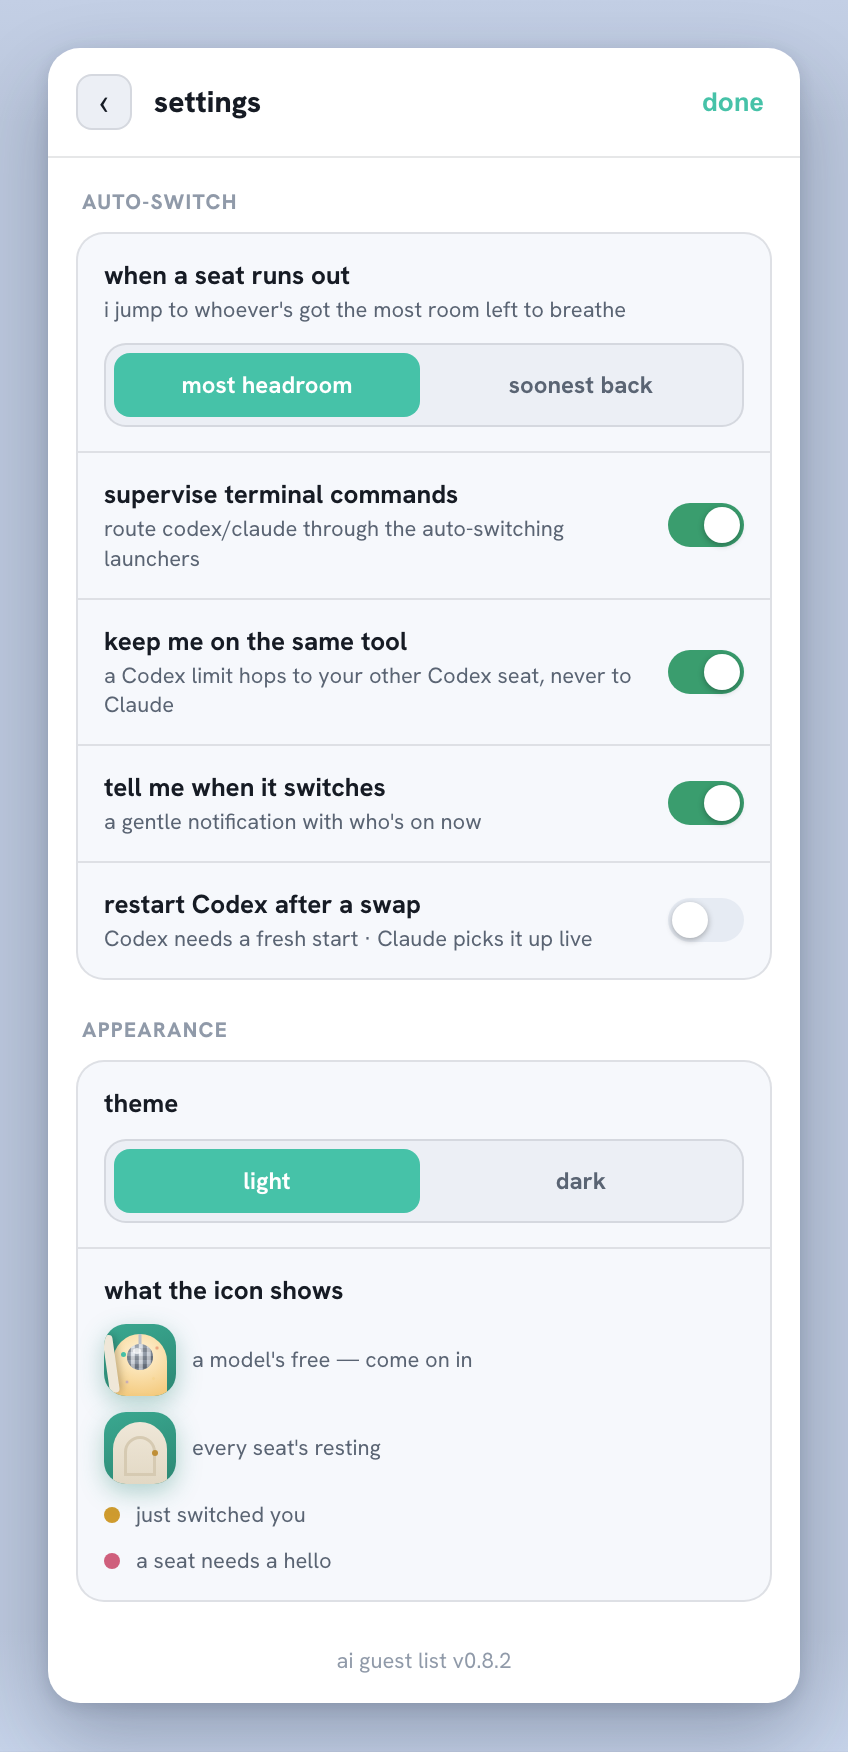
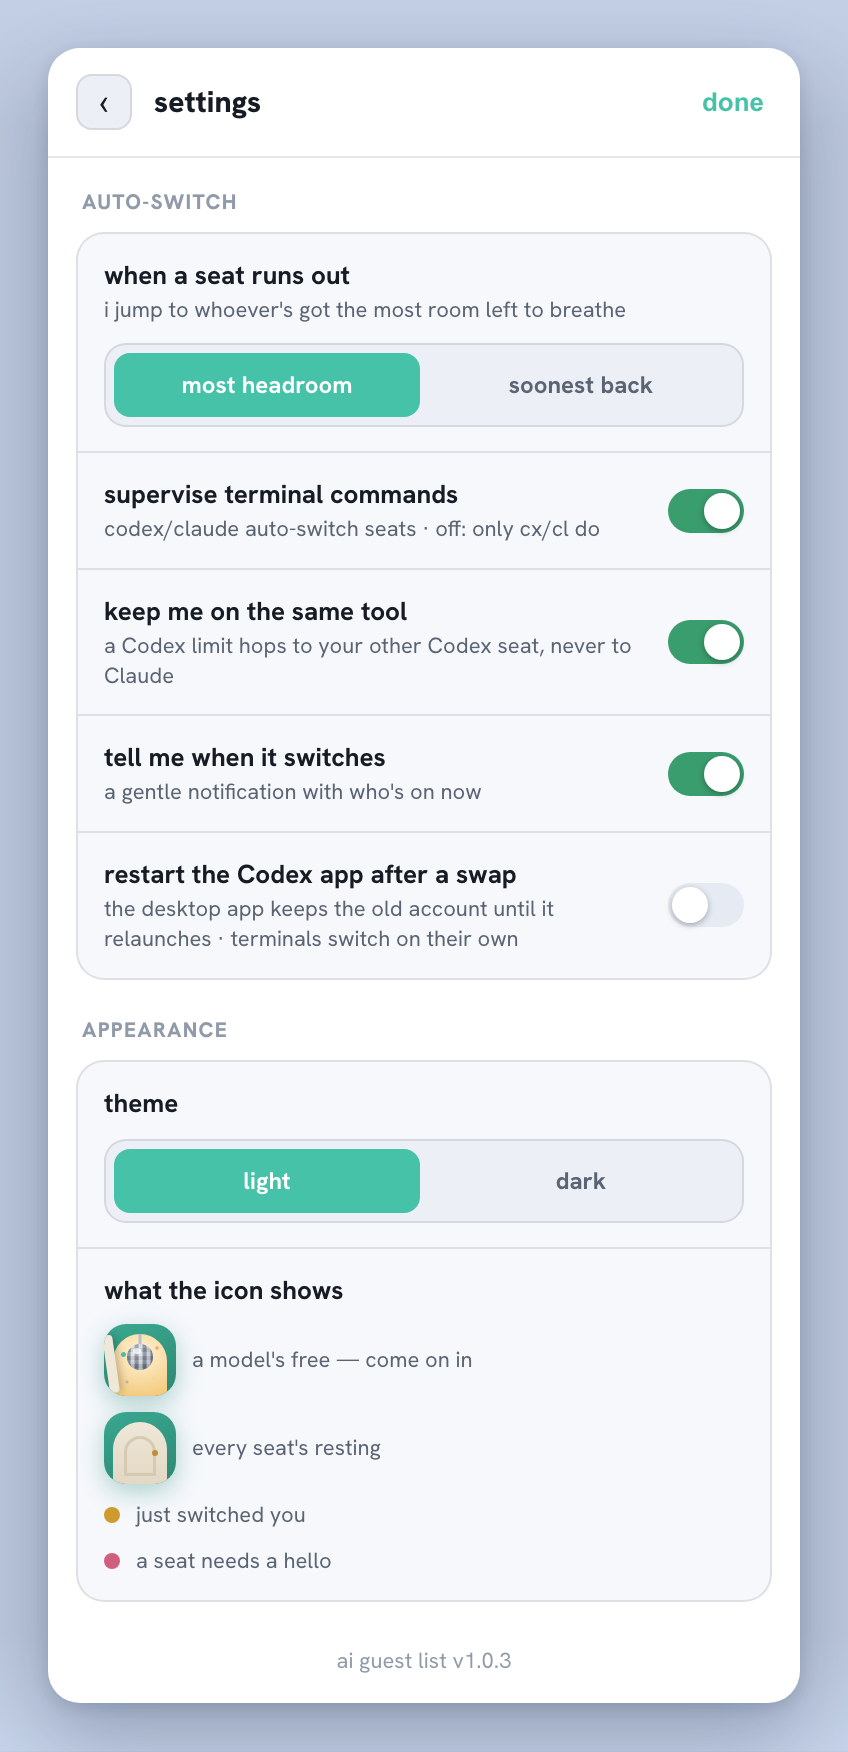
Clarify the Codex-restart and terminal-supervision toggles (#53)
* Say the Codex restart toggle is about the desktop app

"Codex needs a fresh start" read as if terminal Codex needed this setting.
It doesn't: a supervised cx session relaunches on the new seat by itself.
The toggle only quits and reopens the Codex desktop app, which keeps the
old account until it relaunches.

* Say what terminal supervision does, finish the Codex subtitle, reshoot README

The supervise toggle now says what you lose with it off: plain codex/claude
stop auto-switching, while cx/cl still do. The Codex restart subtitle never
changed in the previous commit (the replacement skipped the text containing
the middle dot). The README screenshots are regenerated from the real UI.

---------

diff --git a/app/web/bundle.js b/app/web/bundle.js
@@ -533,10 +533,10 @@ function buildSettings(state) {
   const autoSwitch = `<section class="set-sec"><span class="set-label">auto-switch</span>
     <div class="set-card">
       ${segBlock("when a seat runs out", strategyHint(strat), "set_strategy", strat, STRATEGY_OPTS)}
-      ${toggleRow("supervise_shell", "supervise terminal commands", "route codex/claude through the auto-switching launchers", s.supervise_shell !== false)}
+      ${toggleRow("supervise_shell", "supervise terminal commands", "codex/claude auto-switch seats · off: only cx/cl do", s.supervise_shell !== false)}
       ${toggleRow("same_tool_only", "keep me on the same tool", "a Codex limit hops to your other Codex seat, never to Claude", s.same_tool_only)}
       ${toggleRow("notify", "tell me when it switches", "a gentle notification with who's on now", s.notify)}
-      ${toggleRow("restart_app", "restart Codex after a swap", "Codex needs a fresh start · Claude picks it up live", s.restart_app)}
+      ${toggleRow("restart_app", "restart the Codex app after a swap", "the desktop app keeps the old account until it relaunches · terminals switch on their own", s.restart_app)}
     </div></section>`;
 
   const appearance = `<section class="set-sec"><span class="set-label">appearance</span>

diff --git a/preview.html b/preview.html
@@ -440,7 +440,7 @@ body{background:#c7d4ea;display:flex;gap:24px;padding:24px;flex-wrap:wrap;font-f
     <span class="set-tx"><span class="set-t">tell me when it switches</span><span class="set-s">a gentle notification with who's on now</span></span>
     <input type="checkbox" data-action="toggle" data-key="notify" checked><span class="sw"></span></label>
       <label class="set-toggle-row">
-    <span class="set-tx"><span class="set-t">restart Codex after a swap</span><span class="set-s">Codex needs a fresh start · Claude picks it up live</span></span>
+    <span class="set-tx"><span class="set-t">restart the Codex app after a swap</span><span class="set-s">the desktop app keeps the old account until it relaunches · terminals switch on their own</span></span>
     <input type="checkbox" data-action="toggle" data-key="restart_app" ><span class="sw"></span></label>
     </div></section>
       <section class="set-sec"><span class="set-label">headroom</span>

diff --git a/acctsw/state.py b/acctsw/state.py
@@ -49,7 +49,7 @@ DEFAULT_SETTINGS: dict[str, Any] = {
     "auto_switch": True,
     "same_tool_only": True,   # "keep me on the same tool"
     "notify": True,           # "tell me when it switches"
-    "restart_app": False,     # "restart Codex after a swap"
+    "restart_app": False,     # "restart the Codex app after a swap"
     "celebrations": True,     # "little celebrations"
     "supervise_shell": True,  # wire terminal codex/claude through the supervised cx/cl launchers
     "strategy": "soonest_back",  # "soonest_back" | "most_headroom"

diff --git a/README.md b/README.md
@@ -68,7 +68,7 @@ anywhere.
   refresh every 30 seconds while the popover is open; background and parked-seat refreshes run
   every three minutes. Provider throttling backs off and keeps the last reading visibly stale.
 - **Desktop switching** — the menubar moves a confirmed-limited seat to a verified healthy seat of
-  the same tool when auto-switch is enabled. With “restart Codex after a swap” enabled, a running
+  the same tool when auto-switch is enabled. With “restart the Codex app after a swap” enabled, a running
   Codex desktop app quits gracefully and reopens; continue in your existing thread. Supervised
   terminal sessions resume automatically. Nearly full seats stay active until a confirmed limit.
 - **Zero-touch setup** — installing the app wires `codex` / `claude` to the supervised launchers; when
